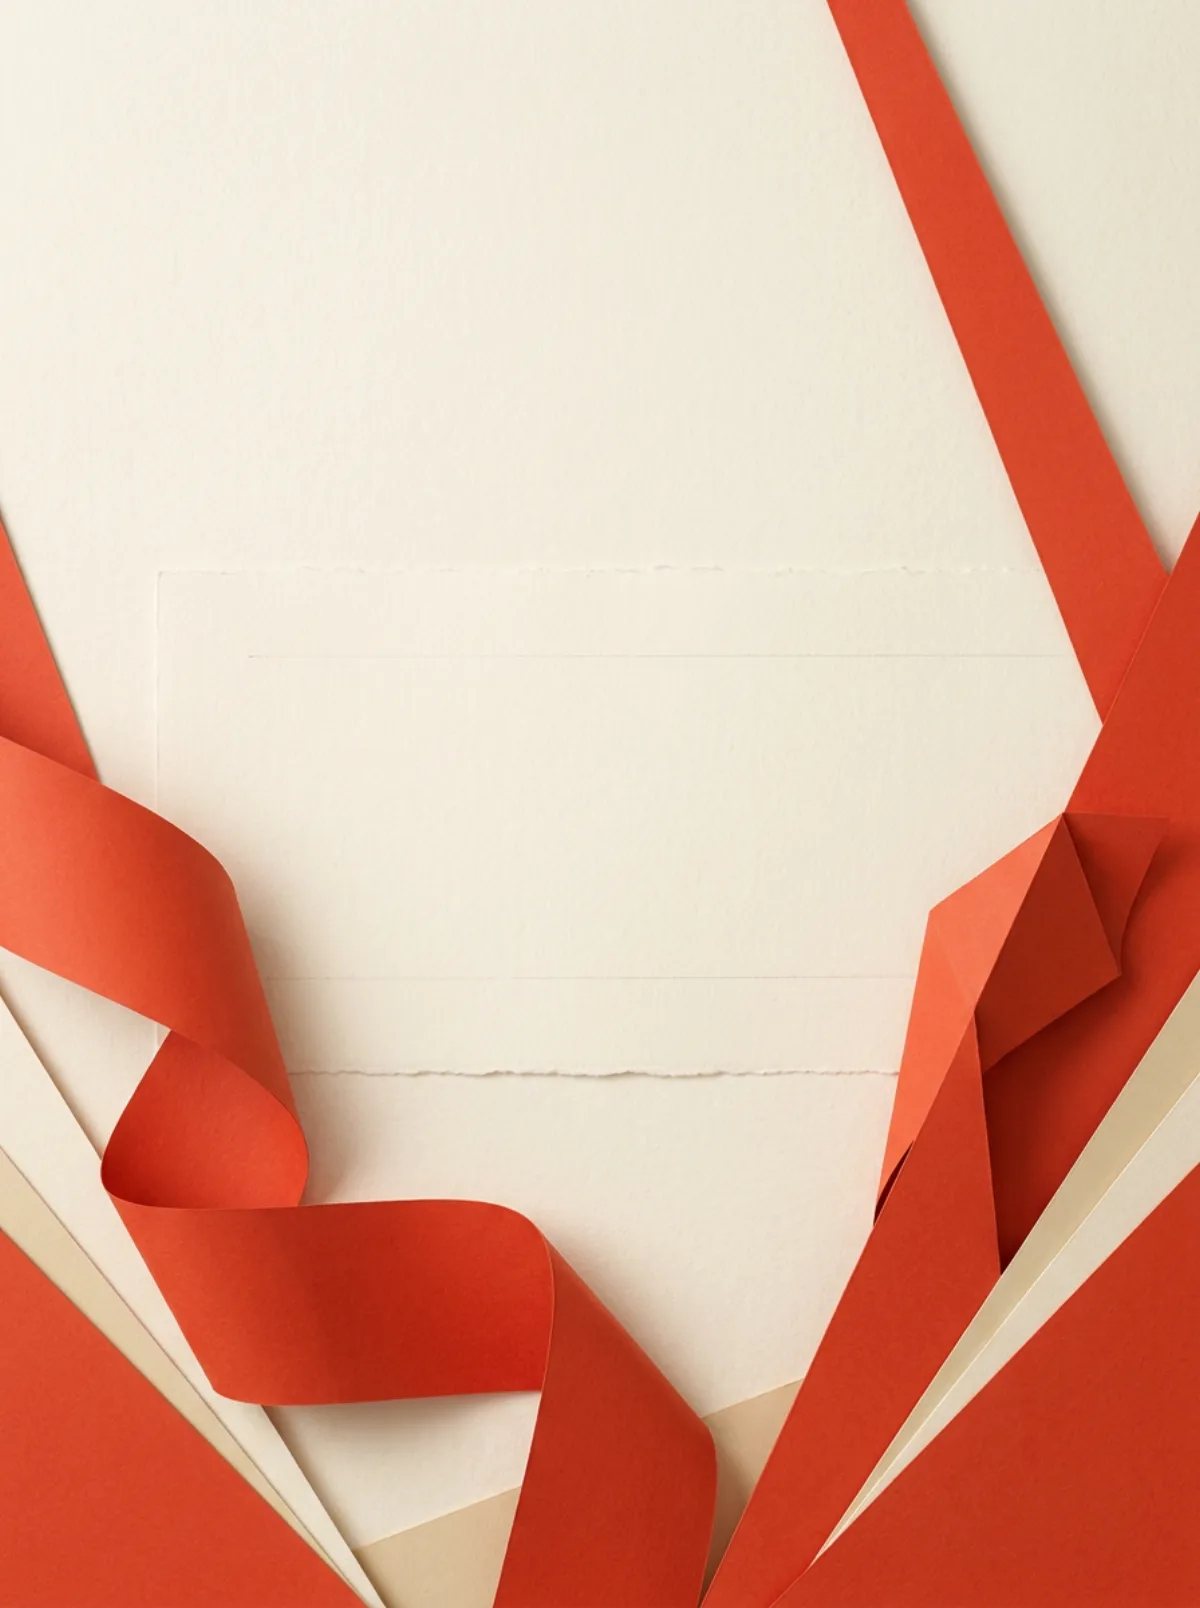
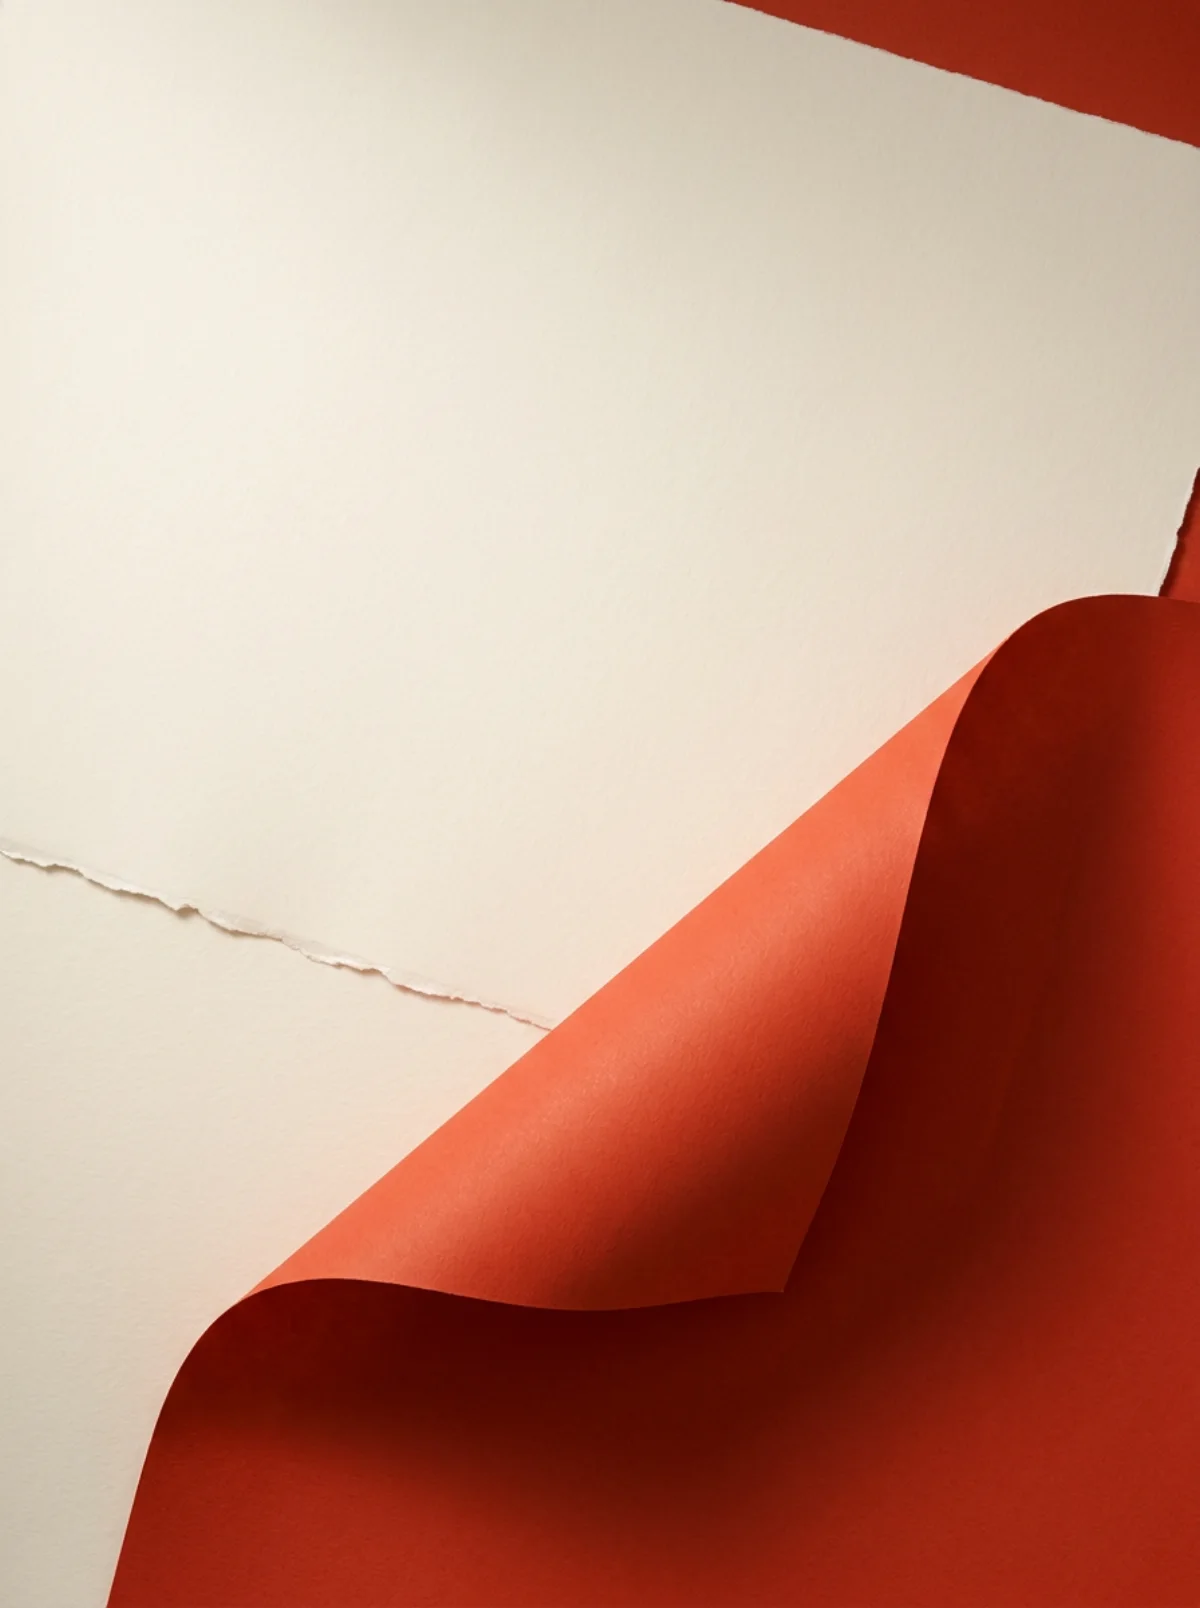
Waitlist: regenerate backdrop art
Replaces the backdrop with a single curled vermilion sheet lower-right,
generated through the image-generation skill's prompt framework
(subject / composition / lighting / colour / mood / technical + explicit
negatives). The interest sits bottom-right so the centred column keeps a
clear field behind it.

Portrait cut regenerated to match; join.css crop points retuned
(center 46% landscape, 38% 38% portrait).

diff --git a/src/app/join/join.css b/src/app/join/join.css
@@ -33,18 +33,18 @@
   width: 100%;
   height: 100%;
   object-fit: cover;
-  object-position: center 62%;
+  object-position: center 46%;
   display: block;
 }
 
 /*
- * Phones get a separately composed portrait cut (see the <picture> in WaitlistLanding), so
- * no zoom trickery is needed here. A phone is still far taller than that 3:4 source, so
- * cover keeps the full height and crops the width to roughly 60 percent: favour the right,
- * where the composition puts its strongest forms, rather than centring on empty paper.
+ * Phones get a separately composed portrait cut (see the <picture> in WaitlistLanding). A
+ * phone is still far taller than that 3:4 source, so cover keeps the full height and crops
+ * the width to roughly 60 percent: favour the left, where this composition keeps its open
+ * paper, and let the curl hold the lower right.
  */
 @media (max-aspect-ratio: 3 / 4) {
-  .jn-backdrop img { object-position: 70% 44%; }
+  .jn-backdrop img { object-position: 38% 38%; }
   .jn-backdrop::after {
     background: radial-gradient(ellipse 88% 42% at 50% 42%, oklch(97% 0.008 85 / 0.93), transparent 78%);
   }

diff --git a/scripts/generate-waitlist-art.py b/scripts/generate-waitlist-art.py
@@ -1,9 +1,14 @@
-"""Generate the waitlist page backdrop.
+"""Generate the waitlist backdrop.
 
-Brief is shaped by the layout, not the other way round: the page is one centred column on
-a full viewport with no scroll, so the artwork has to stay quiet where the words are and
-do its work at the edges. It is cover-cropped, so it must survive both a tall phone and a
-wide laptop.
+Prompts follow the structure from the image-generation skill: subject, composition,
+lighting, colour, mood, technical, then an explicit negative list.
+
+The page is one centred column on a full viewport with no scroll, so the artwork has one
+job and one constraint: be beautiful at the edges, be quiet in the middle. The first
+attempt failed by being busy — a crowd of hard-edged wedges reading as clutter rather than
+craft. These go the other way: very few elements, large, calm, and lit.
+
+  python3 scripts/generate-waitlist-art.py <variant> [portrait]
 
 Reads the key from the existing local file. Never logs the key or the response body.
 """
@@ -13,44 +18,68 @@ from pathlib import Path
 OUT = Path("/Users/limon/thesis/output/waitlist-art")
 MODEL = os.environ.get("ART_MODEL", "google/gemini-3-pro-image")
 
-PROMPT = """Use case: ads-marketing. Create a finished abstract backdrop for the Thesis
-waitlist page at tradethesis.xyz. It sits behind one centred column of text, so the middle
-of the image must stay calm and almost empty.
+COMMON_NEGATIVE = """
+Do not include: any text, letters, numbers, wordmarks, logos or symbols; charts,
+candlesticks, arrows, coins, grids or icons; UI, frames, borders, watermarks; digital
+gradients, lens flare, glow, bloom, metallic or glossy plastic rendering; busy clutter,
+many small shapes, noisy repetition; drop shadows that look pasted on; 3D render clichés.
+Two colours only, warm ivory paper and a single rich vermilion, with natural paper
+variation.
+"""
 
-Warm ivory paper ground, approximately #F5F1E8, with a subtle tactile paper grain. From the
-outer edges, large sculptural cut-paper forms in rich vermilion, approximately #F04B32, reach
-inward and stop well short of the centre: broad folded ribbons and clean angular planes,
-entering from the corners and the lower edge, cropped by the frame so the composition reads
-as a close view of something larger. A few slender ivory and pale sand planes layer beneath
-them, with precise seams and soft contact shadows, suggesting separate convictions arranged
-into one structure.
+CENTRE_RULE = """
+Composition: the centre of the frame — the middle 50 percent of the width and 50 percent of
+the height — must stay calm, open paper. Text sits there. Everything of interest lives in
+the outer band and is cropped by the edges, so the image reads as a close view of something
+larger.
+"""
 
-The centre, roughly the middle 45 percent of the width and the middle 50 percent of the
-height, is quiet open paper with at most a faint deckled edge or a single hairline. Nothing
-busy there.
+VARIANTS = {
+    # Restraint. One gesture, beautifully lit, enormous negative space.
+    "drape": f"""A single sheet of heavy vermilion paper, one long soft fold curving in from
+the lower right corner and lifting slightly away from the surface, casting a soft true
+shadow. Beneath and around it, a wide expanse of warm ivory cotton paper with a deckled
+torn edge running gently across the lower left.
 
-Weight the composition toward the bottom third so the lower edge feels grounded and the top
-stays airy. Elegant asymmetry, generous negative space, crisp edges, shallow paper relief.
-Contemporary art-book jacket, not a corporate diagram.
+{CENTRE_RULE}
 
-ABSOLUTELY NO TEXT, letters, numbers, wordmarks or logos. No charts, candlesticks, arrows,
-coins, grids, icons, gradients, glows, metallic rendering, heavy drop shadows, frames, UI, or
-watermark. Two main colours only, vermilion and warm ivory, with natural paper variation.
+Lighting: soft directional studio light from the upper left, raking low across the paper so
+the fold has a gentle gradient from lit to shadowed and the paper grain is visible. Real
+contact shadows, soft-edged, short.
 
-Landscape 3:2. It will be centre-cropped to both tall portrait and wide landscape, so keep
-everything essential away from all four edges. Artwork only."""
+Colour: warm ivory approximately #F5F1E8 and a single rich vermilion approximately #E8452A.
+Mood: quiet, expensive, considered. A fine-art paper study photographed from directly above.
+Style: overhead photograph of real paper, shallow relief, museum-quality print.
 
-# A phone crops a 3:2 image to a narrow vertical strip, which throws away the forms at the
-# left and right edges and leaves the top half as empty paper. Same composition, recomposed
-# for the shape it will actually be seen in.
-PORTRAIT = PROMPT.replace(
-    "Landscape 3:2. It will be centre-cropped to both tall portrait and wide landscape, so keep\neverything essential away from all four edges. Artwork only.",
-    "Tall portrait 3:4, composed for a phone screen. The quiet open centre becomes a tall calm\n"
-    "band through the upper middle where the text sits. Bring the vermilion forms in from the\n"
-    "left and right edges at mid height and from the bottom, so the lower third is rich and the\n"
-    "top stays airy but not empty: let one slim vermilion plane reach down from the top corner.\n"
-    "Artwork only.",
-).replace("Weight the composition toward the bottom third", "Weight the composition toward the lower half")
+Technical: landscape 3:2. It will be centre-cropped, so keep the fold clear of all four
+edges. {COMMON_NEGATIVE}""",
+
+    # Architecture. Two planes, one seam, strong diagonal.
+    "seam": f"""Two large planes of paper meeting along one clean diagonal seam that runs
+from the lower left toward the upper right: warm ivory on the upper left, deep vermilion on
+the lower right, the vermilion sheet lying very slightly above so a fine shadow line
+separates them. One narrow sliver of pale sand paper tucked beneath the seam near the lower
+left, visible only as a thin edge.
+
+{CENTRE_RULE}
+Keep the seam out of the exact centre; let it pass through the lower third.
+
+Lighting: soft even daylight from the upper left, raking enough to show the thickness of
+each sheet and a crisp shadow along the seam. No harsh highlights.
+
+Colour: warm ivory approximately #F5F1E8, rich vermilion approximately #E8452A, one pale
+sand accent. Mood: calm, architectural, confident. Restraint over decoration.
+Style: overhead photograph of real cut paper, shallow relief, editorial art direction.
+
+Technical: landscape 3:2. Centre-cropped later, so nothing essential near the edges.
+{COMMON_NEGATIVE}""",
+}
+
+PORTRAIT_NOTE = """
+Recompose for a tall portrait 3:4 frame seen on a phone: the calm open area becomes a tall
+band through the upper middle where text sits, and the vermilion gesture occupies the lower
+half and reaches up one side. Keep the top airy but not empty.
+"""
 
 
 def key() -> str:
@@ -65,8 +94,15 @@ def key() -> str:
 
 
 def main() -> None:
-    which = sys.argv[1] if len(sys.argv) > 1 else "landscape"
-    prompt = PORTRAIT if which == "portrait" else PROMPT
+    variant = sys.argv[1] if len(sys.argv) > 1 else "drape"
+    portrait = len(sys.argv) > 2 and sys.argv[2] == "portrait"
+    if variant not in VARIANTS:
+        raise SystemExit(f"unknown variant {variant!r}; have {', '.join(VARIANTS)}")
+
+    prompt = VARIANTS[variant]
+    if portrait:
+        prompt = prompt.replace("Technical: landscape 3:2.", f"{PORTRAIT_NOTE}\nTechnical: portrait 3:4.")
+
     body = json.dumps({
         "model": MODEL,
         "messages": [{"role": "user", "content": prompt}],
@@ -86,12 +122,11 @@ def main() -> None:
         print("no image returned; finish_reason:", payload.get("choices", [{}])[0].get("finish_reason"))
         sys.exit(1)
 
-    url = images[0]["image_url"]["url"]
-    raw = base64.b64decode(url.split(",", 1)[1])
+    raw = base64.b64decode(images[0]["image_url"]["url"].split(",", 1)[1])
     OUT.mkdir(parents=True, exist_ok=True)
-    path = OUT / ("waitlist-backdrop-portrait.png" if which == "portrait" else "waitlist-backdrop.png")
-    path.write_bytes(raw)
-    print(f"  wrote {path}  {len(raw):,} bytes")
+    name = f"{variant}{'-portrait' if portrait else ''}.png"
+    (OUT / name).write_bytes(raw)
+    print(f"  wrote {OUT / name}  {len(raw):,} bytes")
 
 
 if __name__ == "__main__":
